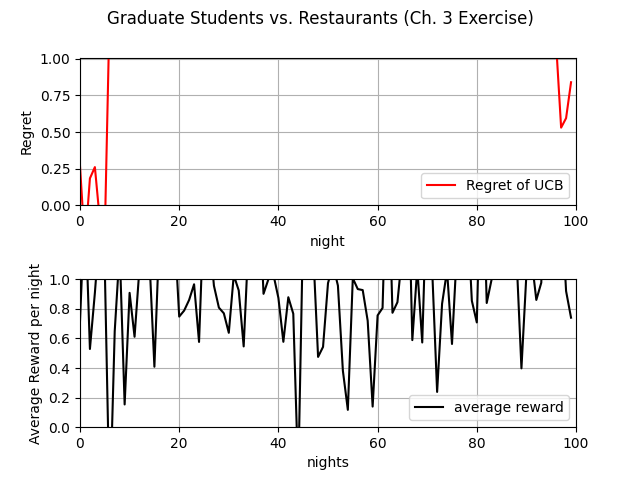
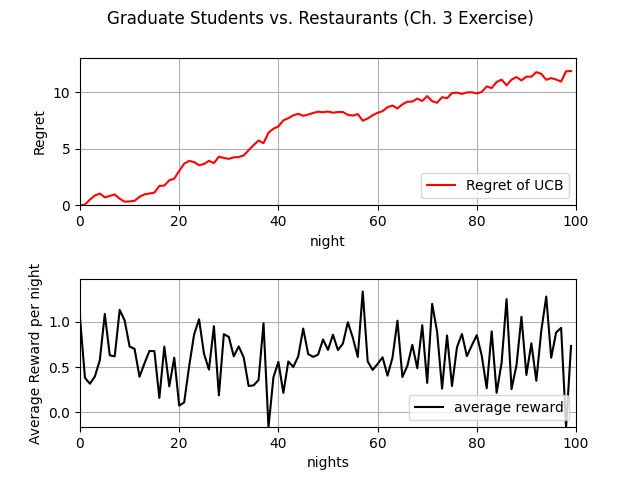
Fixed upper/lower bounds for graphs

diff --git a/restaurant.py b/restaurant.py
@@ -24,7 +24,8 @@ def argmax(arr):
   return arr.index(max(arr))
 
 
-def plot_regret(X, Y, cumulative_optimal_reward, cumulative_reward, average_reward_in_each_round, T):
+def plot_regret(X, Y, cumulative_optimal_reward, cumulative_reward, average_reward_in_each_round, T, max_regret,
+                min_regret, max_avg_reward, min_avg_reward):
   fig, axs = plt.subplots(2)  # get two figures, top is regret, bottom is average reward in each round
   fig.suptitle('Graduate Students vs. Restaurants (Ch. 3 Exercise)')
   fig.subplots_adjust(hspace=0.5)
@@ -34,14 +35,15 @@ def plot_regret(X, Y, cumulative_optimal_reward, cumulative_reward, average_rewa
   axs[0].grid(True)
   axs[0].legend(loc='lower right')
   axs[0].set_xlim(0, T)
-  axs[0].set_ylim(0, 1.2*(cumulative_optimal_reward - cumulative_reward))  # TODO: graph can get out of bound
+
+  axs[0].set_ylim(min_regret, 1.1*max_regret)  # TODO: graph can get out of bound
   axs[1].plot(X, average_reward_in_each_round, color='black', label='average reward')
 
   axs[1].set(xlabel='nights', ylabel='Average Reward per night')
   axs[1].grid(True)
   axs[1].legend(loc='lower right')
   axs[1].set_xlim(0, T)
-  axs[1].set_ylim(0, 1.0)
+  axs[1].set_ylim(min_avg_reward, 1.1*max_avg_reward)
   plt.savefig("./figures/restaurant_plot.png")
   plt.show()
 
@@ -68,7 +70,7 @@ def plot_graph(timesteps, arms, algorithms, algorithm_rewards, algorithm_cum_rew
     plt.axis([0, timesteps, 0, max_cum_reward])
 
     plt.subplot(3, num_of_algo, i + 1 + 2*num_of_algo)
-    plt.scatter(range(timesteps), algorithm_arm_selections[i], s=.1, color='salmon', alpha=.5)
+    plt.scatter(range(timesteps), algorithm_arm_selections[i], s=2.5, color='salmon', alpha=.9)
     plt.axis([0, timesteps, 0, len(arms) + 1])
     plt.xlabel('Time-step t', fontsize=12)
     plt.ylabel(f'{algo.get_name()}\'s arm selection', fontsize=12)
@@ -138,24 +140,28 @@ def main():
   algorithms = [algo_ucb1]
   algorithm_rewards = []  # 2D list[algo][t] (array of running avg. rewards for each algo at time-step t)
   algorithm_cum_rewards = []  # 2D list[algo][t] (array of cumulative rewards for each algo at time-step t)
-  algorithm_arm_selections = []  # 2D list[algo][t] (array of arm selections for each algo at time-step t)
+
+  # 3D list[algo][i][t] (array of arm selections for each algo at time-step t of outer loop i)
+  algorithm_arm_selections = [[]]  # index [0][0]
+  # x = [[foo for i in range(1)] for j in range(1)]
 
   # semi-global variables
   timesteps = T
-  total_iteration = 1  # outer-loop
+  total_iteration = 3  # outer-loop
   reward_round_iteration = np.zeros((timesteps), dtype=float)
 
-  for algo in algorithms:
+  for j, algo in enumerate(algorithms):
     avg_rewards, cum_rewards, arm_selections = [0], [0], []
     new_avg = 0
 
     for i in range(total_iteration):  # one graduate student, no need to average preference
       # TODO: reinitialize algo dynamically based on algo type
-      # algo = get_type(algo).reinit()# pseudocode
+      # algo = get_type(algo).reinit()  # pseudocode
       algo = UCB1(n_arms)  # reinitialize algorithm (clear previous memory)
       for t in range(timesteps):  # NOTE: 0 based? 1 based?
         chosen_arm = algo.select_arm()
         arm_selections.append(chosen_arm + 1)  # convert 0-based index to 1-based
+        # TODO: create a list to keep track of arm selected (count)
         reward = arms[chosen_arm].draw_reward()
         # print("reward is ", reward)
         reward_round_iteration[t] += reward  # This persists over total_iterations
@@ -166,7 +172,7 @@ def main():
         algo.update(chosen_arm, reward)
 
       # Resetting variable
-      algorithm_arm_selections.append(arm_selections)  # NOTE: scatter plots can be overwritten
+      algorithm_arm_selections[j].append(arm_selections)  # NOTE: scatter plots can be overwritten
       arm_selections = []
 
     algorithm_rewards.append(avg_rewards)
@@ -175,7 +181,7 @@ def main():
     # Compute average rewards for each iteration
     average_reward_in_each_round = np.zeros(timesteps, dtype=float)
 
-    print(reward_round_iteration)
+    # print(reward_round_iteration)
 
     # Calculate the values for one good 1000 rounds
     # Squash 200X1000 -> 1X1000
@@ -187,24 +193,34 @@ def main():
     x_axis = np.zeros(timesteps, dtype=int)
     regrets = np.zeros(timesteps, dtype=float)  # regret for each round
 
-    print("Average reward in each round:", average_reward_in_each_round)
+    # print("Average reward in each round:", average_reward_in_each_round)
 
     for t in range(timesteps):
       x_axis[t] = t
       cumulative_optimal_reward += max_mu
       cumulative_reward += average_reward_in_each_round[t]
       # print(f"{cumulative_optimal_reward} \t {cumulative_reward}")
-      regrets[t] = cumulative_optimal_reward - cumulative_reward
+      regrets[t] = max(0, cumulative_optimal_reward - cumulative_reward)
 
-    plot_regret(x_axis, regrets, cumulative_optimal_reward, cumulative_reward, average_reward_in_each_round, timesteps)
+    plot_regret(x_axis, regrets, cumulative_optimal_reward, cumulative_reward, average_reward_in_each_round, timesteps,
+                max(regrets), min(regrets), max(average_reward_in_each_round), min(average_reward_in_each_round))
     print(f"The average regret for {algo.get_name()} is {cumulative_optimal_reward - cumulative_reward}")
 
   max_cum_reward = max([algorithm_cum_rewards[i][-1] for i in range(len(algorithms))])
   for i in range(len(algorithms)):
     print(f"{algorithms[i].get_name()}: {algorithm_cum_rewards[i][-1]:.2f}")
+  print("This is arms selections", algorithm_arm_selections)
 
-  plot_graph(timesteps, arms, algorithms, algorithm_rewards, algorithm_cum_rewards, algorithm_arm_selections, max_mu,
-             max_cum_reward)
+  # Squash algorithm_arm_selections from [algo][i][t] -> [algo][t]
+  # algorithm_average_arm_selections[j][t] -> for algorithm j, timestep t: [.2, .1, .5, .2] <- count of each arm / total_iterations
+  algorithm_average_arm_selections = [[]]
+  for j, algo in enumerate(algorithms):
+    for i in range(total_iteration):
+      for t in range(timesteps):
+        algorithm_average_arm_selections[j][t] = float(algorithm_arm_selections[j][i][t])/float(total_iteration)
+
+  plot_graph(timesteps, arms, algorithms, algorithm_rewards, algorithm_cum_rewards, algorithm_average_arm_selections,
+             max_mu, max_cum_reward)
   # plot_cum_rewards(algorithms, algorithm_cum_rewards, timesteps, max_cum_reward)
 
 

diff --git a/test_plot.py b/test_plot.py
@@ -1,0 +1,14 @@
+import numpy as np
+import matplotlib.pyplot as plt
+
+# Fixing random state for reproducibility
+np.random.seed(19680801)
+
+N = 50
+x = np.random.rand(N)
+y = np.random.rand(N)
+colors = np.random.rand(N)
+area = (100*np.random.rand(N))**2  # 0 to 15 point radii
+print(len(area))
+plt.scatter(x, y, s=50, c='red', alpha=.5)
+plt.show()
